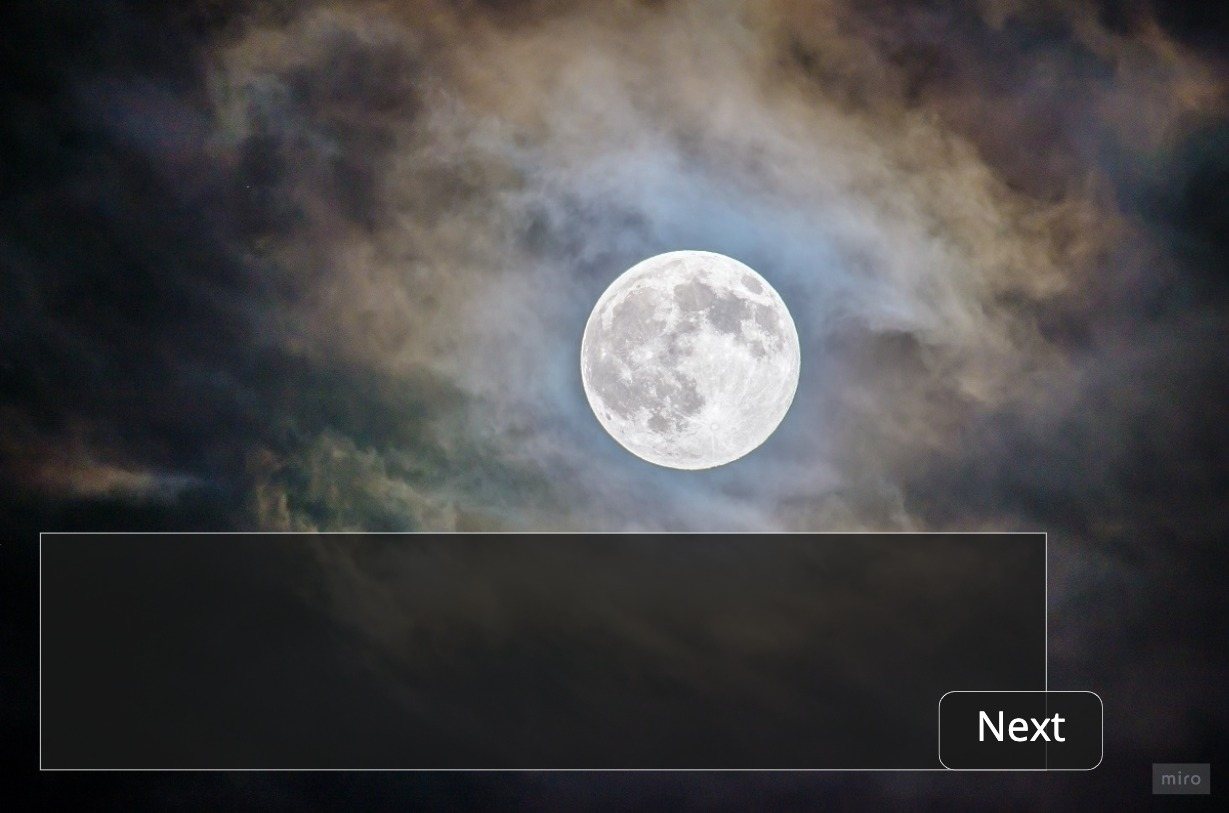
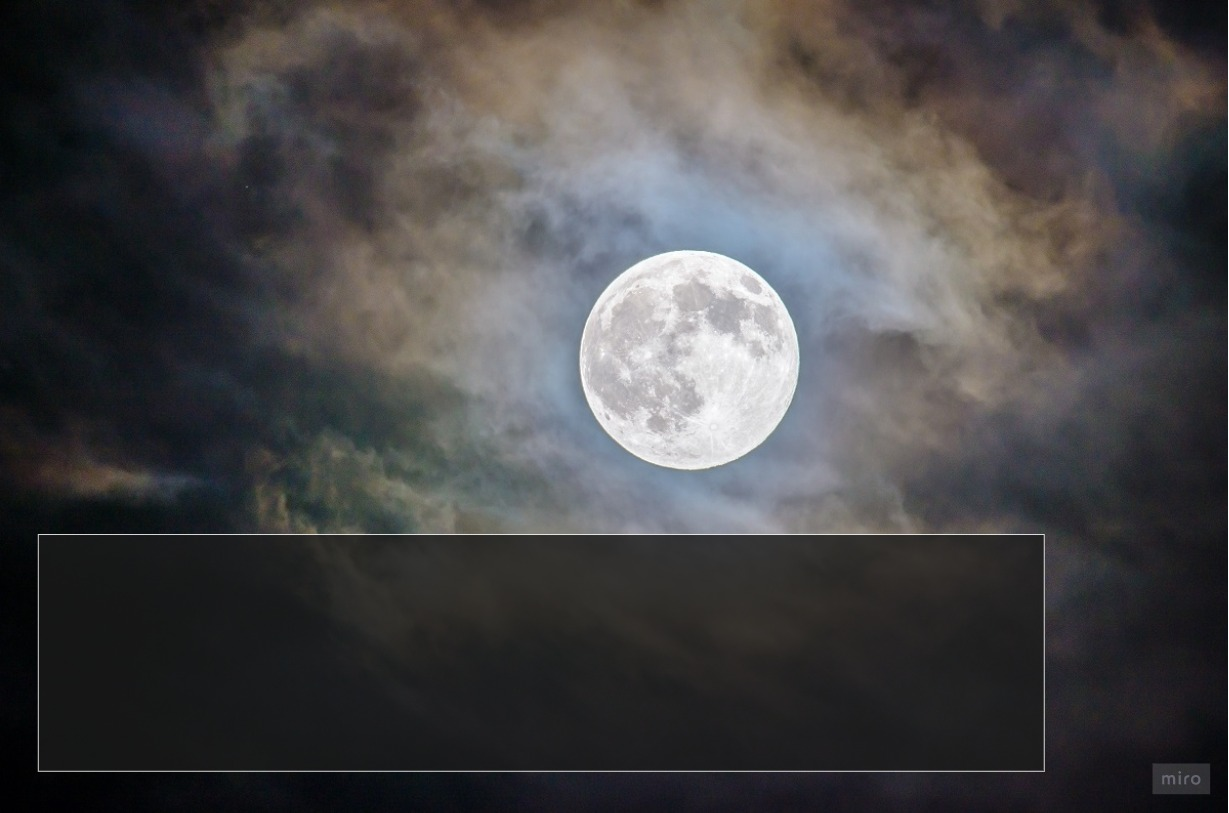
Updated chatBox text and updated eventlistener

diff --git a/target/classes/static/js/introView.js b/target/classes/static/js/introView.js
@@ -1,4 +1,5 @@
 $('#introBase2Img').hide();
+$('#introText1').show();
 $('#introText2').hide();
 $('#introText3').hide();
 $('#introText4').hide();
@@ -7,48 +8,31 @@ $('#doorIntroImg').hide();
 $('#gameStartText').hide();
 $('#gameStartImg').hide();
 
-/*document.getElementById("introPart2").style.display="none";
-document.getElementById("introPart3").style.display="none";
-document.getElementById("introPart4").style.display="none";
-document.getElementById("doorIntro").style.display="none";
-document.getElementById("gameStart").style.display="none";
-document.getElementById("gameStartImg").style.display="none";
-document.getElementById("doorIntroImg").style.display="none";
-document.getElementById("IntroBase2").style.display="none";*/
-showText();
+document.getElementById("nextButton").addEventListener("click", "introText2");
 
 
+    function clickNext() {
 
-function showText(){
-
-    let baseImg1 = document.getElementById("introBaseImg").src;
-    let baseImg2 = document.getElementById("introBase2Img").src;
-    let baseImg3 = document.getElementById("gameStartImg").src;
-    /*if(onclick*/
-
-    $('introText1').hide();
-    $('introText2').show();
+        let baseImg1 = document.getElementById("introBaseImg").src;
+        let baseImg2 = document.getElementById("introBase2Img").src;
+        let baseImg3 = document.getElementById("gameStartImg").src;
+        let baseImg4 = document.getElementById("doorIntroImg").src;
+        let locationHref = location.href = "player";
 
 
-   /* document.getElementById("introText2").style.display="block";
-    document.getElementById("introText1").style.display="none";
-*/    if(baseImg1.includes("introText2")) {
-        $('introText2').hide();
-        $('introText3').show();
+        if (baseImg1.includes('introBase.jpg')) {
+            $('introText1').hide();
+            $('introText2').show();
 
-       /* document.getElementById("introText3").style.display="block";
-        document.getElementById("introText2").style.display="none";*/
+        }
     }
-    if(baseImg1.includes("introText3")) {
+    /*if(baseImg1.includes("introText3")) {
         $('introBaseImg').hide();
         $('introText3').hide();
         $(baseImg2).show();
         $('introText4').show();
 
-        /*document.getElementById("IntroBase2Img").style.display="block";
-        document.getElementById("introText4").style.display="block";
-        document.getElementById("IntroBaseImg").style.display="none";
-        document.getElementById("introText3").style.display="none";*/
+
     }
     if(baseImg2.includes("introText4")) {
         $(baseImg2).hide();
@@ -56,22 +40,35 @@ function showText(){
         $(baseImg3).show();
         $('gameStartText').show();
 
-        /*document.getElementById("gameStartImg").style.display="block";
-        document.getElementById("gameStartText").style.display="block";
-        document.getElementById("introText4").style.display="none";*/
+
     }
 
     if(baseImg3.includes("gameStartText")) {
-        $(baseImg3).hide();
-        $('gameStartText').hide();
-        $('doorIntroImg').show();
-        $('doorIntroText').show();
-        /*document.getElementById("doorIntroImg").style.display="block";
-        document.getElementById("doorIntroText").style.display="block";
-        document.getElementById("gameStartImg").style.display="none";*/
-    }
-  /*  if(onclick) {*/
-        /*Till sist. Klickar du på den sista bilden så hänvisas du till en ny sida.*/
+        location.href = "player";
 
+    }
+    if(locationHref.includes ("BaseScreen.jpg")){
+            $(baseImg4).show();
+            $('doorIntroText').show();
+        }
+    if(baseImg4.includes('doorIntroText')) {
+            $(baseImg4).hide();
+            $('doorIntroText').hide();
+        }
 
 }
+
+function sound(src){
+    this.sound = document.createElement("audio");
+    this.sound.src = src;
+    this.sound.setAttribute("preload", "auto");
+    this.sound.setAttribute("controls", "none");
+    this.sound.style.display = "none";
+    document.body.appendChild(this.sound);
+    this.play = function(){
+        this.sound.play();
+    }
+    this.stop = function(){
+        this.sound.pause();
+    }
+}*/

diff --git a/src/main/resources/static/js/introView.js b/src/main/resources/static/js/introView.js
@@ -1,4 +1,5 @@
 $('#introBase2Img').hide();
+$('#introText1').show();
 $('#introText2').hide();
 $('#introText3').hide();
 $('#introText4').hide();
@@ -10,29 +11,22 @@ $('#gameStartImg').hide();
 document.getElementById("nextButton").addEventListener("click", clickNext);
 
 
+    function clickNext() {
 
-    function clickNext(){
-
-    let baseImg1 = document.getElementById("introBaseImg").src;
-    let baseImg2 = document.getElementById("introBase2Img").src;
-    let baseImg3 = document.getElementById("gameStartImg").src;
-    let baseImg4 = document.getElementById("doorIntroImg").src;
-    let locationHref = location.href = "player";
-
-
-    $('introText1').hide();
-    $('introText2').show();
+        let baseImg1 = document.getElementById("introBaseImg").src;
+        let baseImg2 = document.getElementById("introBase2Img").src;
+        let baseImg3 = document.getElementById("gameStartImg").src;
+        let baseImg4 = document.getElementById("doorIntroImg").src;
+        let locationHref = location.href = "player";
 
 
+        if (baseImg1.includes('introBase.jpg')) {
+            $('introText1').hide();
+            $('introText2').show();
 
-    if(baseImg1.includes("introText2")) {
-        $('introText2').hide();
-        $('introText3').show();
-
-       /* document.getElementById("introText3").style.display="block";
-        document.getElementById("introText2").style.display="none";*/
+        }
     }
-    if(baseImg1.includes("introText3")) {
+    /*if(baseImg1.includes("introText3")) {
         $('introBaseImg').hide();
         $('introText3').hide();
         $(baseImg2).show();
@@ -62,8 +56,6 @@ document.getElementById("nextButton").addEventListener("click", clickNext);
             $('doorIntroText').hide();
         }
 
-
-
 }
 
 function sound(src){
@@ -79,4 +71,4 @@ function sound(src){
     this.stop = function(){
         this.sound.pause();
     }
-}
+}*/

diff --git a/target/classes/templates/intro.html b/target/classes/templates/intro.html
@@ -1,5 +1,5 @@
 <!DOCTYPE html>
-<html lang="en" xmlns:th="http//:www.w3.org/1999/xhtml">
+<html lang="en" xmlns:th="http://www.w3.org/1999/xhtml">
 <head>
     <link rel="stylesheet" type="text/css" href="/intro.css">
     <meta charset="UTF-8">
@@ -12,6 +12,7 @@
     <img id="introBase2Img" th:src="@{/images/introBase2.jpg}"/>
     <img id="gameStartImg" th:src="@{/images/gameStart.jpg}"/>
     <img id="doorIntroImg" th:src="@{/images/doorIntro.jpg}"/>
+    <img class="nextButton" src="images/nextBtn.jpg" width="100x100"/>
 
 <p id="introText1">In a little town outside Connecticut lives the couple Ed and Lorrain Warren
     famous for their investigations of supernatural activitys and work with cases where paranormal activitys has ouccured.</p>

diff --git a/src/main/resources/static/intro.css b/src/main/resources/static/intro.css
@@ -5,9 +5,23 @@
 position:relative;
     text-align: center;
 }
-#introPart1,#introPart2,#introPart3,#introPart4,#gameStart,#doorIntro{
+p{
     position: absolute;
-    top:60%;
-    left:2%;
+    top:74%;
+    left:10%;
+    width:62%
 }
+.nextButton{
+    margin-bottom: auto;
+    top: 85%;
+    left: 80%;
+    position: absolute;
+    border: none;
+    cursor: pointer;
+    background: rgba(0,0,0,0.0)
+}
+#introBaseImg,#introBase2Img,#doorIntroImg,#gameStartImg{
 
+    width: 100%;
+    min-height: 100%;
+}

diff --git a/target/classes/static/intro.css b/target/classes/static/intro.css
@@ -5,9 +5,23 @@
 position:relative;
     text-align: center;
 }
-#introPart1,#introPart2,#introPart3,#introPart4,#gameStart,#doorIntro{
+p{
     position: absolute;
-    top:60%;
-    left:2%;
+    top:74%;
+    left:5%;
+    width:62%
 }
+.nextButton{
+    margin-bottom: auto;
+    top: 85%;
+    left: 80%;
+    position: absolute;
+    border: none;
+    cursor: pointer;
+    background: rgba(0,0,0,0.0)
+}
+#introBaseImg,#introBase2Img,#doorIntroImg,#gameStartImg{
 
+    width: 100%;
+    min-height: 100%;
+}

diff --git a/src/main/resources/templates/intro.html b/src/main/resources/templates/intro.html
@@ -12,6 +12,7 @@
     <img id="introBase2Img" th:src="@{/images/introBase2.jpg}"/>
     <img id="gameStartImg" th:src="@{/images/gameStart.jpg}"/>
     <img id="doorIntroImg" th:src="@{/images/doorIntro.jpg}"/>
+    <img class="nextButton" src="images/nextBtn.jpg" width="100x100"/>
 
 <p id="introText1">In a little town outside Connecticut lives the couple Ed and Lorrain Warren
     famous for their investigations of supernatural activitys and work with cases where paranormal activitys has ouccured.</p>

diff --git a/target/classes/static/samara.css b/target/classes/static/samara.css
@@ -31,7 +31,7 @@
 
 #continueButton {
     position: absolute;
-    top: 460px;
+    top: 427px;
     left: 730px;
 }
 
